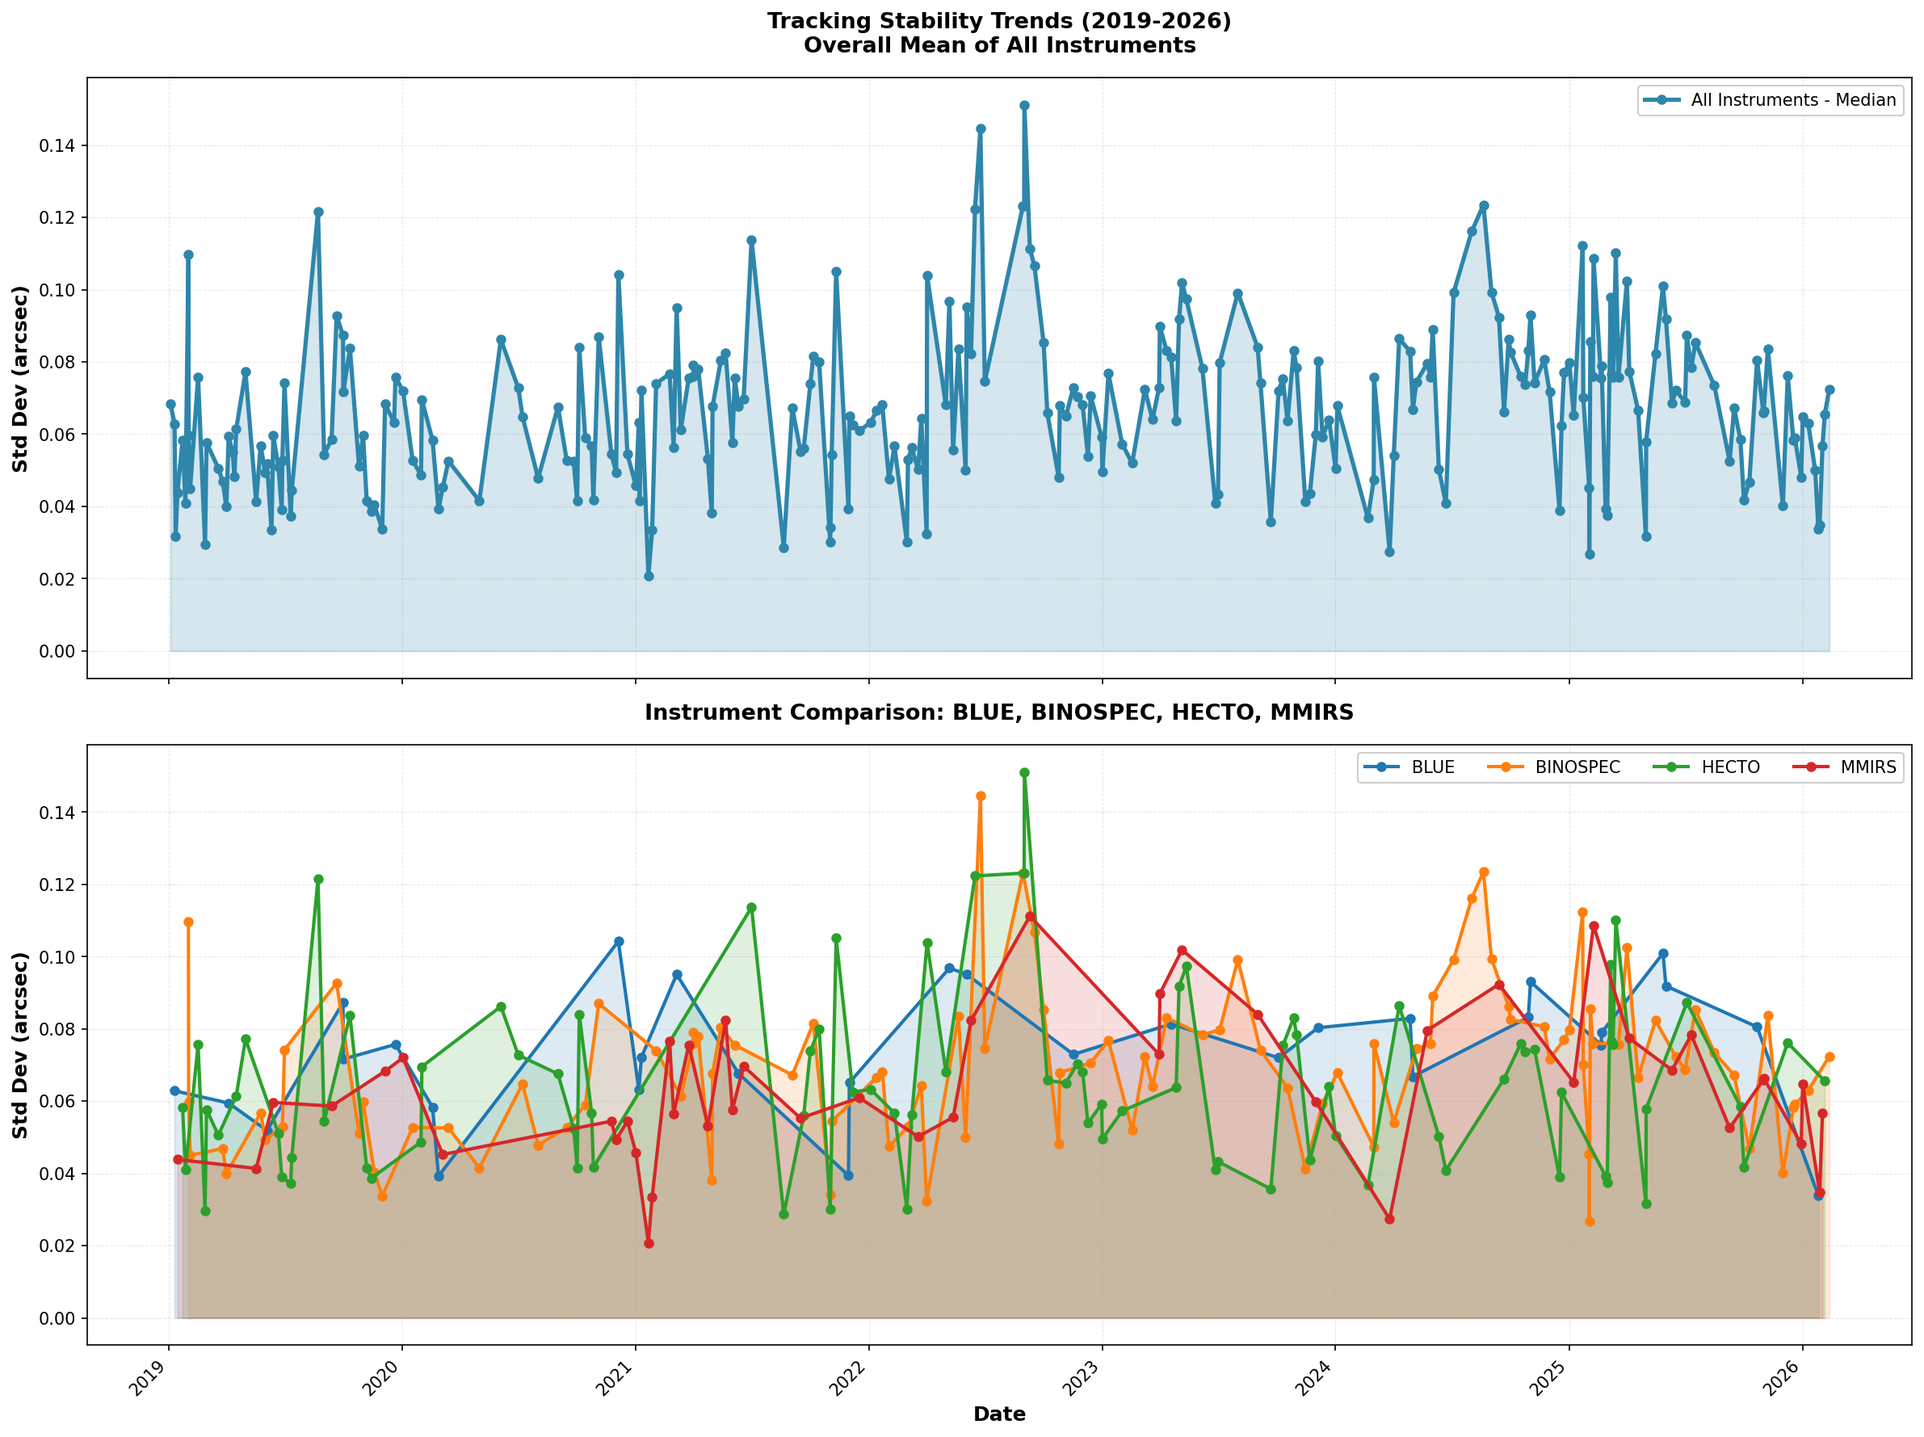
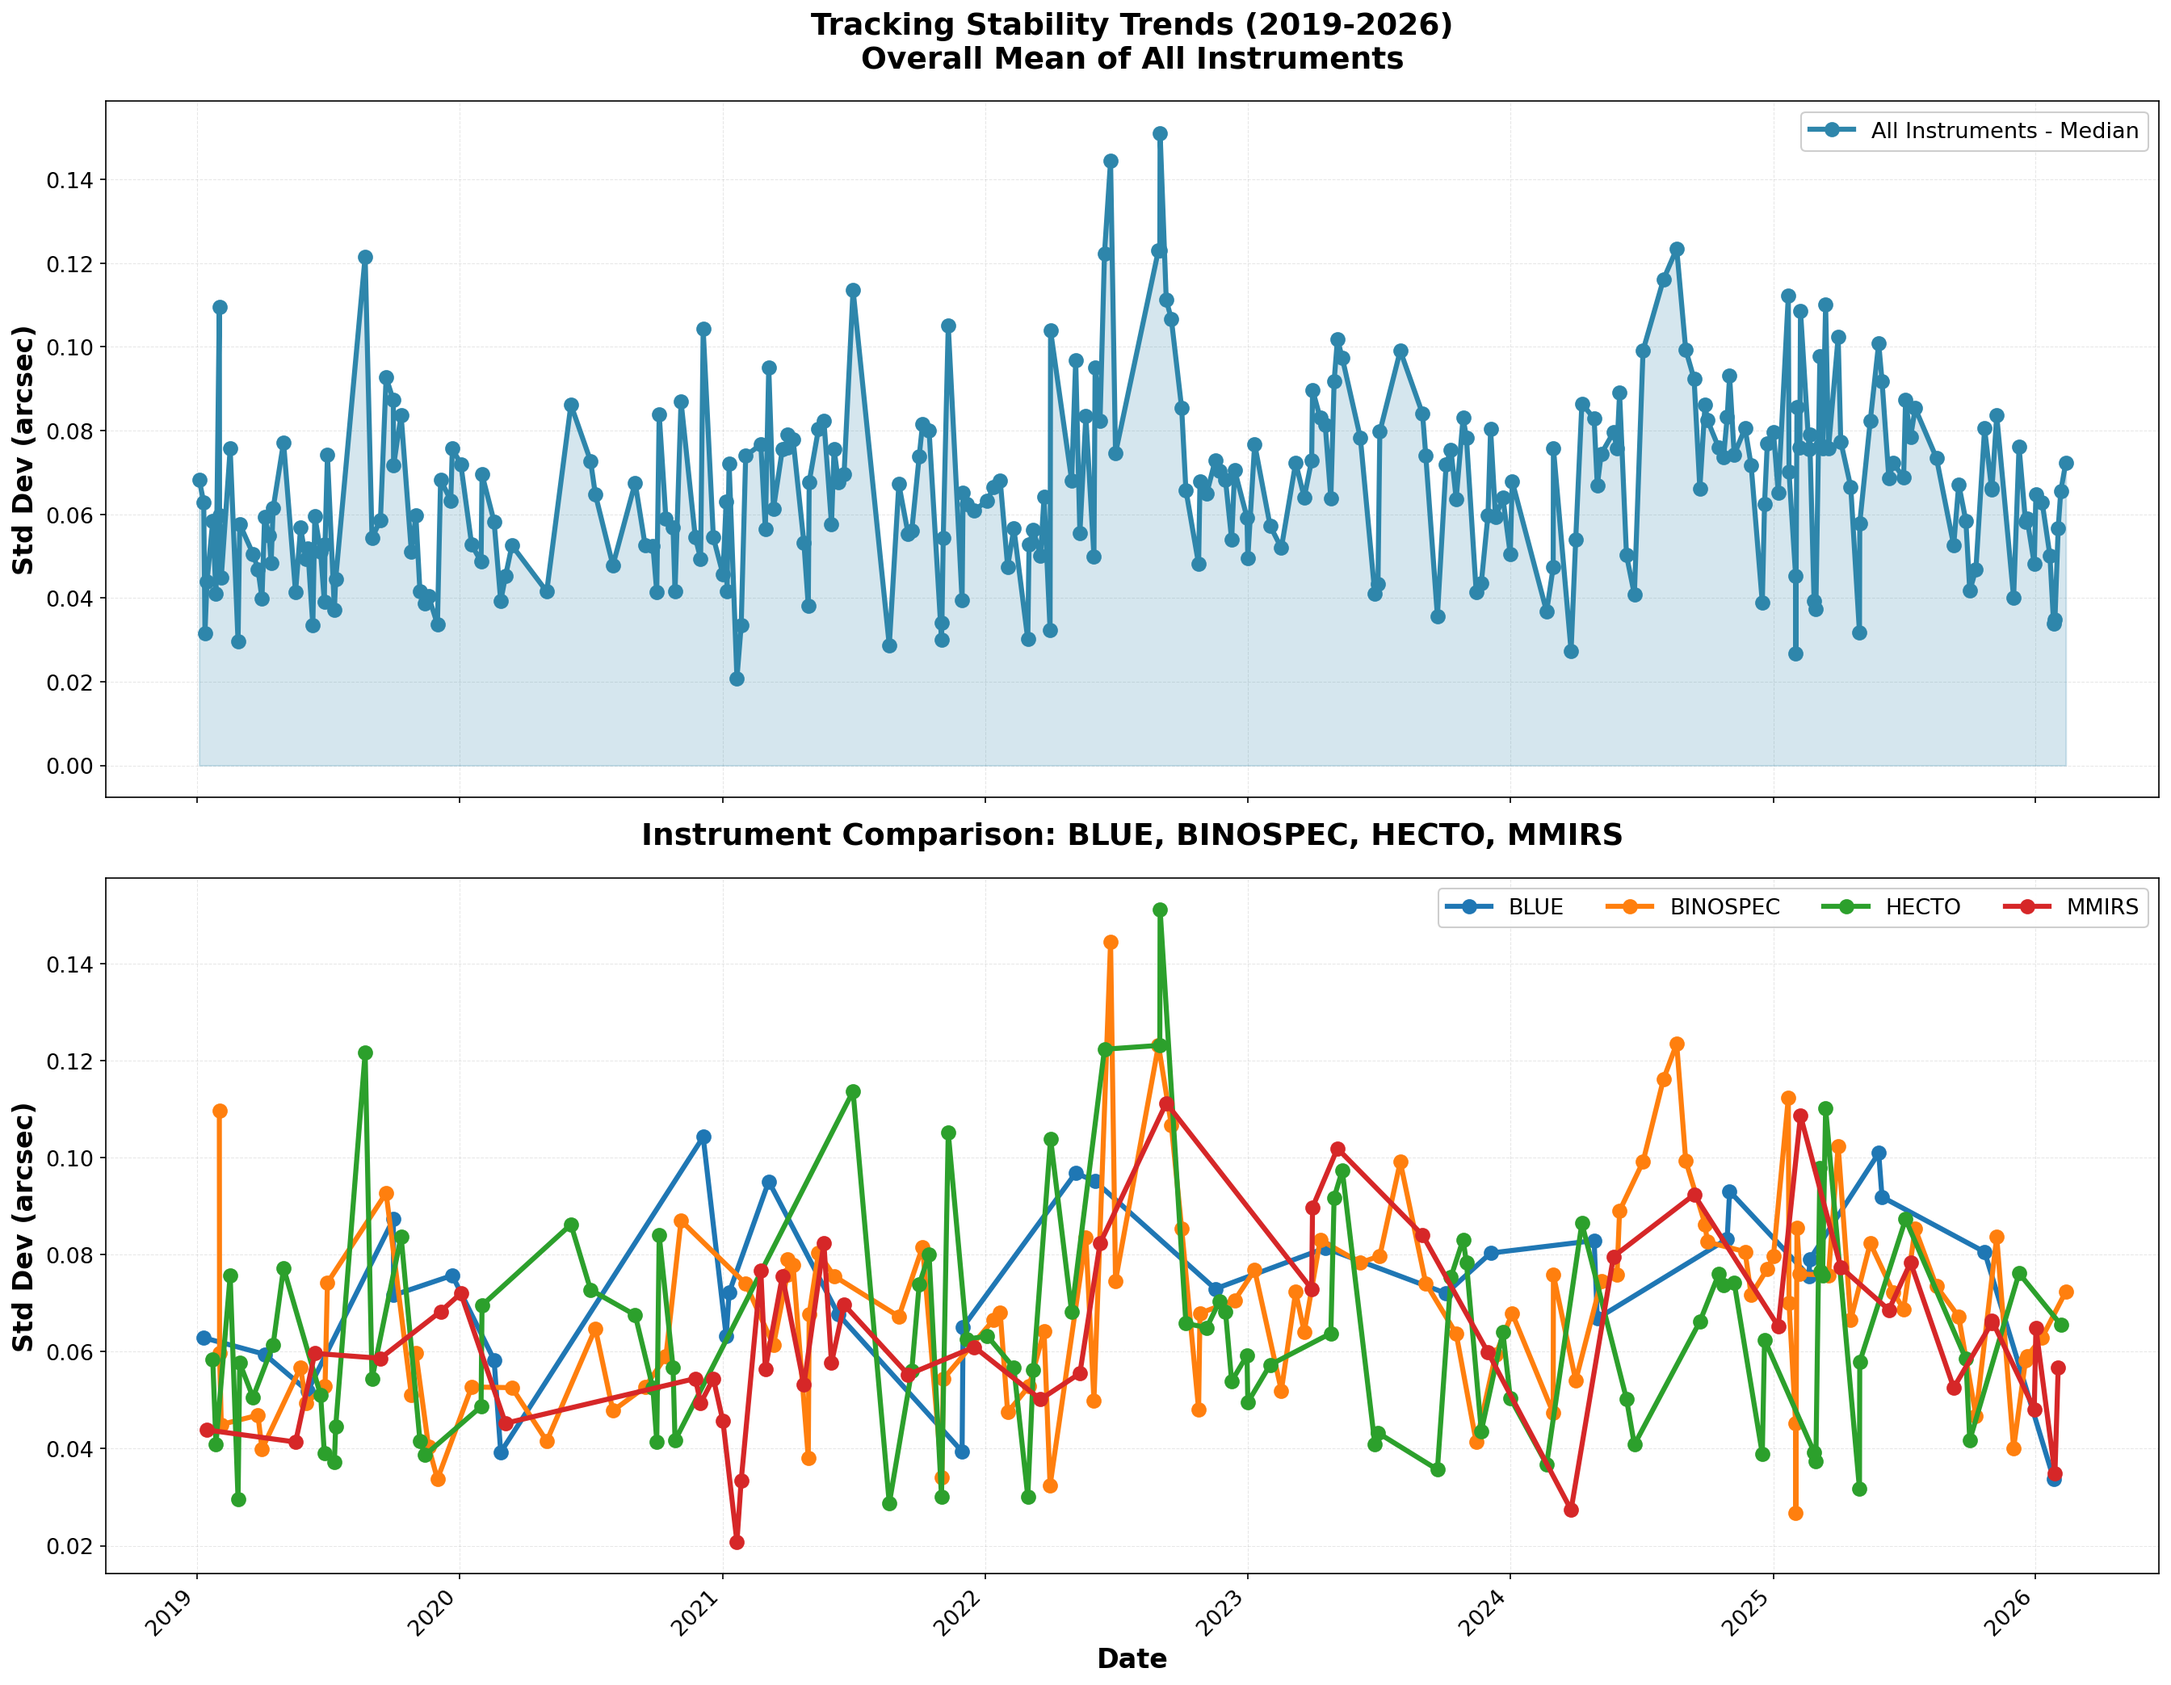
Working on new stddev_2029_2026.py script for figures.

diff --git a/stddev_2019_2026.py b/stddev_2019_2026.py
@@ -206,20 +206,21 @@ def plot_combined_comparison(df, output_file=None):
     }
     
     # Create figure with 2 subplots stacked vertically
-    fig, (ax_top, ax_bottom) = plt.subplots(2, 1, figsize=(16, 12), sharex=True)
+    fig, (ax_top, ax_bottom) = plt.subplots(2, 1, figsize=(18, 14), sharex=True)
     
     # Top subplot: Overall trend with all data
     ax_top.plot(df['datetime'], df['median_stddev_arcsec'], 
-                marker='o', linestyle='-', linewidth=2.5, markersize=5, 
+                marker='o', linestyle='-', linewidth=3, markersize=8, 
                 color='#2E86AB', label='All Instruments - Median', zorder=3)
     ax_top.fill_between(df['datetime'], df['median_stddev_arcsec'], 
                         alpha=0.2, color='#2E86AB', zorder=2)
     
-    ax_top.set_ylabel('Std Dev (arcsec)', fontsize=12, fontweight='bold')
+    ax_top.set_ylabel('Std Dev (arcsec)', fontsize=16, fontweight='bold')
     ax_top.set_title('Tracking Stability Trends (2019-2026)\nOverall Mean of All Instruments', 
-                     fontsize=13, fontweight='bold', pad=15)
+                     fontsize=18, fontweight='bold', pad=20)
     ax_top.grid(True, alpha=0.3, linestyle='--', linewidth=0.5)
-    ax_top.legend(loc='best', fontsize=10, framealpha=0.95)
+    ax_top.legend(loc='best', fontsize=13, framealpha=0.95)
+    ax_top.tick_params(axis='both', which='major', labelsize=13)
     
     # Bottom subplot: Individual instruments with different colors
     target_instruments = ['blue', 'binospec', 'hecto', 'mmirs']
@@ -229,17 +230,16 @@ def plot_combined_comparison(df, output_file=None):
         if len(df_inst) > 0:
             color = instrument_colors.get(instrument, '#000000')
             ax_bottom.plot(df_inst['datetime'], df_inst['median_stddev_arcsec'], 
-                          marker='o', linestyle='-', linewidth=2, markersize=5, 
+                          marker='o', linestyle='-', linewidth=3, markersize=8, 
                           color=color, label=instrument.upper(), zorder=2)
-            ax_bottom.fill_between(df_inst['datetime'], df_inst['median_stddev_arcsec'], 
-                                  alpha=0.15, color=color, zorder=1)
     
-    ax_bottom.set_xlabel('Date', fontsize=12, fontweight='bold')
-    ax_bottom.set_ylabel('Std Dev (arcsec)', fontsize=12, fontweight='bold')
+    ax_bottom.set_xlabel('Date', fontsize=16, fontweight='bold')
+    ax_bottom.set_ylabel('Std Dev (arcsec)', fontsize=16, fontweight='bold')
     ax_bottom.set_title('Instrument Comparison: BLUE, BINOSPEC, HECTO, MMIRS', 
-                        fontsize=13, fontweight='bold', pad=15)
+                        fontsize=18, fontweight='bold', pad=20)
     ax_bottom.grid(True, alpha=0.3, linestyle='--', linewidth=0.5)
-    ax_bottom.legend(loc='best', fontsize=10, framealpha=0.95, ncol=4)
+    ax_bottom.legend(loc='best', fontsize=13, framealpha=0.95, ncol=4)
+    ax_bottom.tick_params(axis='both', which='major', labelsize=13)
     
     # Format x-axis for date display
     fig.autofmt_xdate(rotation=45, ha='right')
